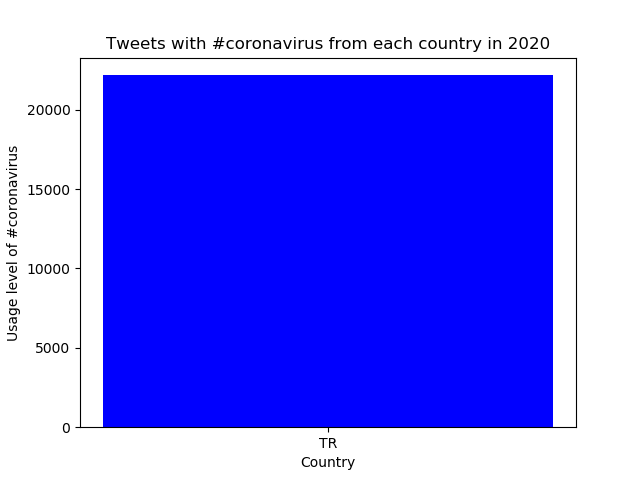
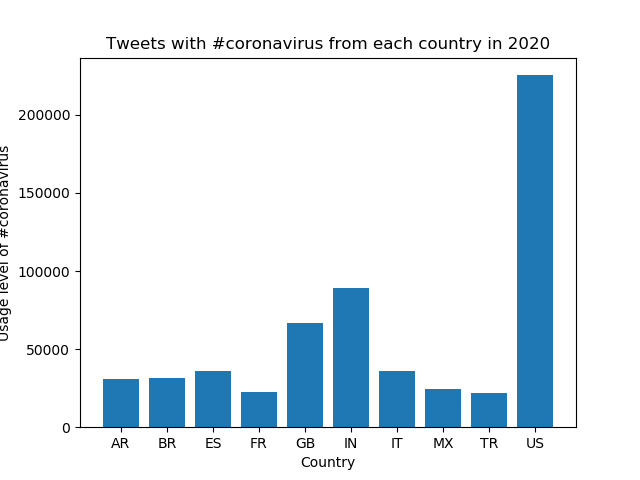
updated graph

diff --git a/src/visualize.py b/src/visualize.py
@@ -40,9 +40,6 @@ keys.reverse()
 values.reverse()
 print(keys, values)
 
-# create bar graph
-plt.bar(key, value, color = 'blue', width = 0.5)
-
 if args.input_path == 'reduced.lang':
     plt.xlabel("Language")
     plt.ylabel("Usage level of " + args.key)
@@ -52,5 +49,6 @@ else:
     plt.ylabel("Usage level of " + args.key)
     plt.title("Tweets with " + args.key + " from each country in 2020")
 
+plt.bar(keys,values)
 # save bar graph file to plots folder
 plt.savefig(f'graphs/{args.input_path}__{args.key}_bar.png')
